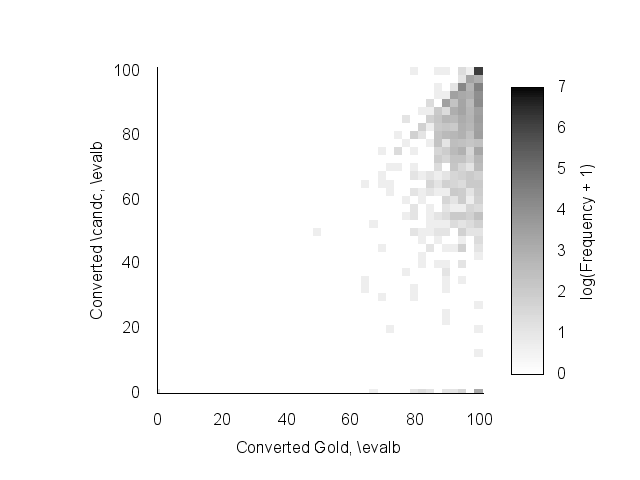
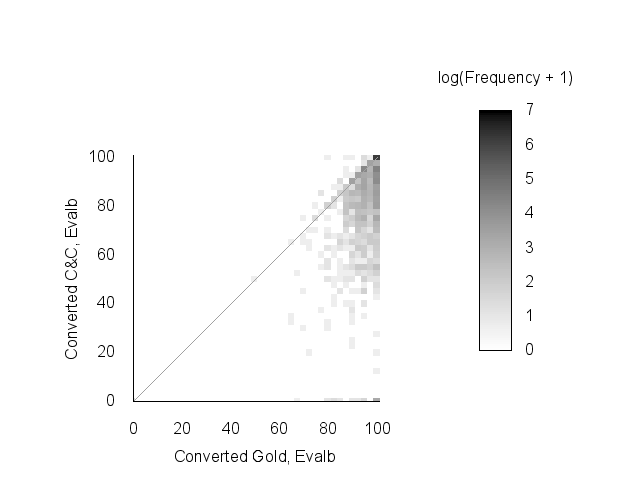
Improving appearance of CCG plots

diff --git a/ccg.tex b/ccg.tex
@@ -422,20 +422,25 @@ were lost.
 
 \begin{figure}
 \centering
-  \scalebox{0.7}{ \includegraphics{figures/heat-converted} }
+  \hfill
+  \scalebox{0.85}{ \includegraphics[trim={110mm 25mm 10mm 15mm},clip]{figures/heat-converted} }
+  \scalebox{0.85}{ \includegraphics[trim={15mm 0 55mm 40mm},clip]{figures/heat-converted} }
+  \hfill
 	\\
-  \scalebox{0.7}{ \includegraphics{figures/heat-native} }
+  \scalebox{0.85}{ 
+    \includegraphics[trim={15mm 0 50mm 40mm},clip]{figures/heat-native}
+    \hfill
+    \includegraphics[trim={15mm 0 65mm 40mm},clip]{figures/heat-both}
+  }
+%%%  \framebox{
+%%%  \scalebox{0.6}{ \includegraphics[trim={25mm 0 15mm 0},clip]{figures/heat-both} }
+%%%  }
 	\caption{
 		\label{fig:scatter_plots}
-		For each sentence in the treebank, we plot the converted parser output
-		against gold conversion (left), and the original parser evaluation against
-		gold conversion (right).
-		Left: Most points lie below the diagonal, indicating that the quality of
-		converted parser output (y) is upper bounded by the quality of conversion on
-		gold parses (x).
-		Right: No clear correlation is present, indicating that the set of
-		sentences that are converted best (on the far right), are not necessarily
-		easy to parse.
+		For each sentence in the treebank, we plot the converted parser output against gold conversion (top), the original parser evaluation against gold conversion (left), and the converted parser output against the original parser evaluation against (right).
+		A diagonal line indicating $x=y$ is also included.
+		Top: Most points lie below the diagonal, indicating that the quality of converted parser output (y) is upper bounded by the quality of conversion on gold parses (x).
+		Bottom: No clear correlation is present, indicating that the set of sentences that are converted best (on the far right), are not necessarily easy to parse.
 	}
 \end{figure}
 
